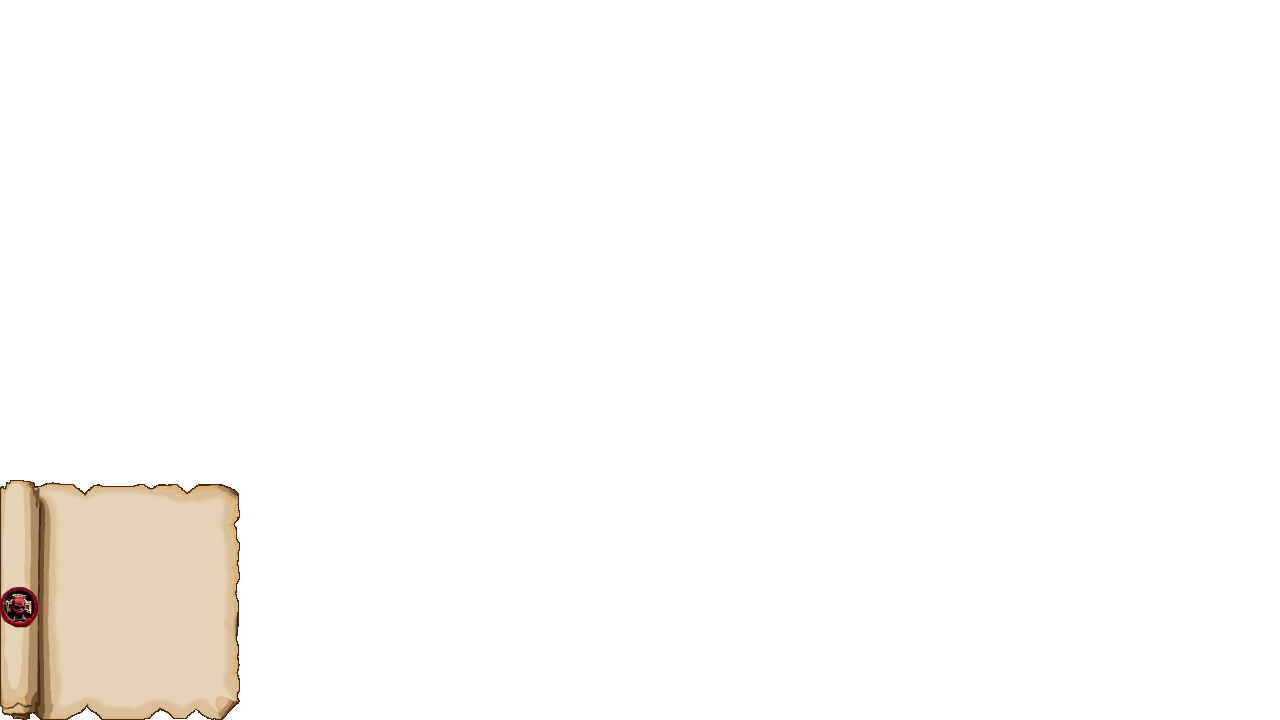
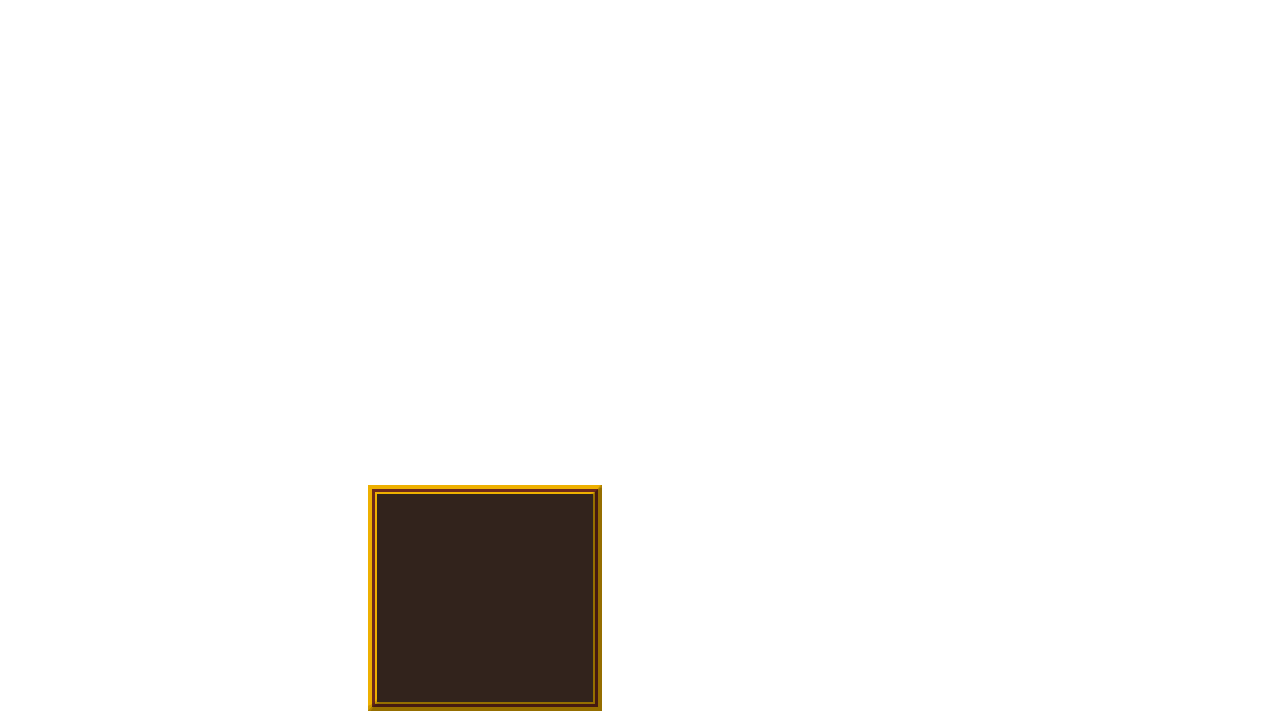
WIP battle menu

Changed region(s): [[0.0, 0.6417, 0.1875, 1.0], [0.2812, 0.6722, 0.4688, 1.0]]

diff --git a/js/plugins/TEW/TEW_Combat.js b/js/plugins/TEW/TEW_Combat.js
@@ -4415,7 +4415,6 @@ function Window_TacticsActionCommand() {
 Window_TacticsActionCommand.prototype = Object.create(Window_ActorCommand.prototype);
 Window_TacticsActionCommand.prototype.constructor = Window_TacticsActionCommand;
 Window_TacticsActionCommand.prototype.initialize = function () {
-    var y = Graphics.boxHeight - this.windowHeight();
     Window_Command.prototype.initialize.call(this, 240, Graphics.boxHeight - this.windowHeight());
     this.openness = 0;
     this.deactivate();
@@ -4704,7 +4703,10 @@ Scene_Battle.prototype.createBackground = function () {
 };
 Scene_Battle.prototype.changeBackground = function (commandLevel = 0) {
     this.removeChildAt(this.getChildIndex(this._background));
-    this._background = new Sprite(ImageManager.loadSystem(commandLevel === 0 ? 'bg_battle' : ('bg_battle_command' + commandLevel)));
+    // this._background = new Sprite(ImageManager.loadSystem(
+    //     commandLevel === 0 ? 'bg_battle' : ('bg_battle_command' + commandLevel)
+    // ));
+    this._background = new Sprite(ImageManager.loadSystem(commandLevel === 0 ? 'bg_battle' : ('bg_battle_command1')));
     this.addChildAt(this._background, this.getChildIndex(this._windowLayer));
 };
 Scene_Battle.prototype.createAllWindows = function () {
@@ -5765,20 +5767,37 @@ Window_BattleLog.prototype.showNormalAnimation = function (targets, animationId,
 function Window_TacticsCommand() {
     this.initialize.apply(this, arguments);
 }
+Window_TacticsCommand.IMAGE_CACHE_RID = 'battleCommand';
+Window_TacticsCommand.TEXT_COLOR = "#f0f0f0";
+Window_TacticsCommand.X_POS = 368;
+Window_TacticsCommand.Y_POS = 485;
 Window_TacticsCommand.prototype = Object.create(Window_ActorCommand.prototype);
 Window_TacticsCommand.prototype.constructor = Window_TacticsCommand;
 Window_TacticsCommand.prototype.initialize = function () {
-    var y = Graphics.boxHeight - this.windowHeight();
-    Window_Command.prototype.initialize.call(this, 40, Graphics.boxHeight - this.windowHeight());
+    Window_Command.prototype.initialize.call(this, 368, 485);
     this.openness = 0;
     this.deactivate();
     this._actor = null;
-};
-Window_TacticsCommand.prototype.activate = function () {
-    Window_ActorCommand.prototype.activate.call(this);
-};
-Window_TacticsCommand.prototype.deactivate = function () {
-    Window_ActorCommand.prototype.deactivate.call(this);
+    this._iconOrder = ['icon_battleCommand_action', 'icon_battleCommand_move', 'icon_battleCommand_lastUsed', 'icon_battleCommand_wait'];
+    this._imagesReady = false;
+    ImageManager.reserveSystem('icon_battleCommand_action', 0, Window_TacticsCommand.IMAGE_CACHE_RID);
+    ImageManager.reserveSystem('icon_battleCommand_move', 0, Window_TacticsCommand.IMAGE_CACHE_RID);
+    ImageManager.reserveSystem('icon_battleCommand_lastUsed', 0, Window_TacticsCommand.IMAGE_CACHE_RID);
+    ImageManager.reserveSystem('icon_battleCommand_wait', 0, Window_TacticsCommand.IMAGE_CACHE_RID);
+    ImageManager.reserveSystem('icon_battleCommand_action_selected', 0, Window_TacticsCommand.IMAGE_CACHE_RID);
+    ImageManager.reserveSystem('icon_battleCommand_move_selected', 0, Window_TacticsCommand.IMAGE_CACHE_RID);
+    ImageManager.reserveSystem('icon_battleCommand_lastUsed_selected', 0, Window_TacticsCommand.IMAGE_CACHE_RID);
+    ImageManager.reserveSystem('icon_battleCommand_wait_selected', 0, Window_TacticsCommand.IMAGE_CACHE_RID);
+    const readyCheck = resolve => {
+        if (ImageManager.isReady())
+            resolve();
+        else
+            setTimeout(() => readyCheck(resolve), 100);
+    };
+    new Promise(readyCheck).then(() => {
+        this._imagesReady = true;
+        this.refresh();
+    });
 };
 Window_TacticsCommand.prototype.setup = function (actor) {
     this._actor = actor;
@@ -5791,12 +5810,39 @@ Window_TacticsCommand.prototype.setup = function (actor) {
     this.activate();
     this.open();
 };
+Window_TacticsCommand.prototype.refresh = function () {
+    if (this._actor && this._imagesReady) {
+        Window_ActorCommand.prototype.refresh.call(this);
+    }
+};
 Window_TacticsCommand.prototype.makeCommandList = function () {
     if (this._actor) {
         this.addMoveCommand();
         this.addActionCommand();
-        this.addAdvantageCommand();
+        this.addAdvantageCommand(); // TODO replace with last used
         this.addWaitCommand();
+    }
+};
+Window_TacticsCommand.prototype.drawItem = function (index) {
+    const y = index * (TEW.MENU.LINE_HEIGHT + 8);
+    let iconName = this._index === index ? this._iconOrder[index] + '_selected' : this._iconOrder[index];
+    const bitmap = ImageManager.loadSystem(iconName);
+    this.contents.blt(bitmap, 0, 0, bitmap.rect.width, bitmap.rect.height, 0, y);
+    this.changeTextColor(Window_TacticsCommand.TEXT_COLOR);
+    this.drawText(this.commandName(index), 48, y, 152);
+    this.resetTextColor();
+};
+Window_TacticsCommand.prototype.itemRect = function (index) {
+    return new Rectangle(0, index * (TEW.MENU.LINE_HEIGHT + 8), 200, TEW.MENU.LINE_HEIGHT);
+};
+Window_TacticsCommand.prototype.itemRectForText = function (index) {
+    return this.itemRect(index);
+};
+Window_TacticsCommand.prototype.select = function (index) {
+    const changed = index >= 0 && index !== this.index();
+    Window_Selectable.prototype.select.call(this, index);
+    if (changed) {
+        this.refresh();
     }
 };
 // Legacy command list
@@ -5832,6 +5878,15 @@ Window_TacticsCommand.prototype.addAdvantageCommand = function () {
 };
 Window_TacticsCommand.prototype.addWaitCommand = function () {
     this.addCommand(TEW.COMBAT.SYSTEM.wait, 'wait', true);
+};
+Window_TacticsCommand.prototype.close = function () {
+    ImageManager.releaseReservation(Window_TacticsCommand.IMAGE_CACHE_RID);
+    Window_ActorCommand.prototype.close.call(this);
+};
+Window_TacticsCommand.prototype.horizontalborderPadding = () => 25;
+Window_TacticsCommand.prototype.verticalBorderPadding = () => 25;
+Window_TacticsCommand.prototype.updateCursor = function () {
+    this.setCursorRect(0, 0, 0, 0);
 };
 // #endregion =========================== Window_TacticsCommand ============================== //
 // ============================== //
@@ -6903,10 +6958,10 @@ Spriteset_Tactics.prototype.isEffecting = function () {
 // ============================== //
 // #region ============================== backgrounds ============================== //
 Window_TacticsCommand.prototype.windowWidth = function () {
-    return 200; // 4 * line height + 2 * text padding + 2 * bg padding
+    return 234;
 };
 Window_TacticsCommand.prototype.windowHeight = function () {
-    return 240; // 4 * line height + 2 * text padding + 2 * bg padding
+    return 226;
 };
 Window_TacticsActionCommand.prototype.windowWidth = function () {
     return 200; // 4 * line height + 2 * text padding + 2 * bg padding

diff --git a/src/plugins/combat/menu/Window_TacticsCommand.ts b/src/plugins/combat/menu/Window_TacticsCommand.ts
@@ -1,4 +1,8 @@
 // $PluginCompiler TEW_Combat.js
+
+import TEW from "../../_types/tew";
+import { Bitmap } from "../../../rmmv/core/Bitmap";
+
 // $StartCompilation
 
 //-----------------------------------------------------------------------------
@@ -10,24 +14,39 @@ function Window_TacticsCommand() {
     this.initialize.apply(this, arguments);
 }
 
+Window_TacticsCommand.IMAGE_CACHE_RID = 'battleCommand';
+Window_TacticsCommand.TEXT_COLOR = "#f0f0f0";
+Window_TacticsCommand.X_POS = 368;
+Window_TacticsCommand.Y_POS = 485;
+
 export default Window_TacticsCommand.prototype = Object.create(Window_ActorCommand.prototype);
 Window_TacticsCommand.prototype.constructor = Window_TacticsCommand;
 
 Window_TacticsCommand.prototype.initialize = function() {
-    var y = Graphics.boxHeight - this.windowHeight();
-    Window_Command.prototype.initialize.call(this, 40, Graphics.boxHeight - this.windowHeight());
+    Window_Command.prototype.initialize.call(this, 368, 485);
     this.openness = 0;
     this.deactivate();
     this._actor = null;
+    this._iconOrder = ['icon_battleCommand_action', 'icon_battleCommand_move', 'icon_battleCommand_lastUsed', 'icon_battleCommand_wait'];
+    
+    this._imagesReady = false;
+    ImageManager.reserveSystem('icon_battleCommand_action', 0, Window_TacticsCommand.IMAGE_CACHE_RID);
+    ImageManager.reserveSystem('icon_battleCommand_move', 0, Window_TacticsCommand.IMAGE_CACHE_RID);
+    ImageManager.reserveSystem('icon_battleCommand_lastUsed', 0, Window_TacticsCommand.IMAGE_CACHE_RID);
+    ImageManager.reserveSystem('icon_battleCommand_wait', 0, Window_TacticsCommand.IMAGE_CACHE_RID);
+    ImageManager.reserveSystem('icon_battleCommand_action_selected', 0, Window_TacticsCommand.IMAGE_CACHE_RID);
+    ImageManager.reserveSystem('icon_battleCommand_move_selected', 0, Window_TacticsCommand.IMAGE_CACHE_RID);
+    ImageManager.reserveSystem('icon_battleCommand_lastUsed_selected', 0, Window_TacticsCommand.IMAGE_CACHE_RID);
+    ImageManager.reserveSystem('icon_battleCommand_wait_selected', 0, Window_TacticsCommand.IMAGE_CACHE_RID);
+    const readyCheck = resolve => {
+        if (ImageManager.isReady()) resolve();
+        else setTimeout(() => readyCheck(resolve), 100);
+    };
+    new Promise(readyCheck).then(() => {
+        this._imagesReady = true;
+        this.refresh();
+    });
 };
-
-Window_TacticsCommand.prototype.activate = function() {
-    Window_ActorCommand.prototype.activate.call(this);
-}
-
-Window_TacticsCommand.prototype.deactivate = function() {
-    Window_ActorCommand.prototype.deactivate.call(this);
-}
 
 Window_TacticsCommand.prototype.setup = function(actor) {
     this._actor = actor;
@@ -41,12 +60,48 @@ Window_TacticsCommand.prototype.setup = function(actor) {
     this.open();
 };
 
+Window_TacticsCommand.prototype.refresh = function() {
+    if (this._actor && this._imagesReady) {
+        Window_ActorCommand.prototype.refresh.call(this);
+    }
+};
+
 Window_TacticsCommand.prototype.makeCommandList = function() {
     if (this._actor) {
         this.addMoveCommand();
         this.addActionCommand();
-        this.addAdvantageCommand();
+        this.addAdvantageCommand(); // TODO replace with last used
         this.addWaitCommand();
+    }
+};
+
+Window_TacticsCommand.prototype.drawItem = function(index: number) {
+    const y = index * (TEW.MENU.LINE_HEIGHT + 8);
+
+    let iconName = this._index === index ? this._iconOrder[index] + '_selected' : this._iconOrder[index];
+    const bitmap: Bitmap = ImageManager.loadSystem(iconName);
+    this.contents.blt(bitmap, 0, 0, bitmap.rect.width, bitmap.rect.height, 0, y);
+    this.changeTextColor(Window_TacticsCommand.TEXT_COLOR);
+    this.drawText(this.commandName(index), 48, y, 152);
+    this.resetTextColor();
+};
+
+Window_TacticsCommand.prototype.itemRect = function(index: number) {
+    return new Rectangle(
+        0, index * (TEW.MENU.LINE_HEIGHT + 8),
+        200, TEW.MENU.LINE_HEIGHT
+    );
+};
+
+Window_TacticsCommand.prototype.itemRectForText = function(index: number) {
+    return this.itemRect(index);
+};
+
+Window_TacticsCommand.prototype.select = function(index: number) {
+    const changed = index >= 0 && index !== this.index();
+    Window_Selectable.prototype.select.call(this, index);
+    if (changed) {
+        this.refresh();
     }
 };
 
@@ -88,4 +143,16 @@ Window_TacticsCommand.prototype.addAdvantageCommand = function() {
 
 Window_TacticsCommand.prototype.addWaitCommand = function() {
     this.addCommand(TEW.COMBAT.SYSTEM.wait, 'wait', true);
+};
+
+Window_TacticsCommand.prototype.close = function() {
+    ImageManager.releaseReservation(Window_TacticsCommand.IMAGE_CACHE_RID);
+    Window_ActorCommand.prototype.close.call(this);
+};
+
+Window_TacticsCommand.prototype.horizontalborderPadding = () => 25;
+Window_TacticsCommand.prototype.verticalBorderPadding = () => 25;
+
+Window_TacticsCommand.prototype.updateCursor = function() {
+    this.setCursorRect(0, 0, 0, 0);
 };

diff --git a/src/plugins/combat/menu/Scene_Battle.ts b/src/plugins/combat/menu/Scene_Battle.ts
@@ -68,8 +68,11 @@ Scene_Battle.prototype.createBackground = function() {
 
 Scene_Battle.prototype.changeBackground = function(commandLevel = 0) {
     this.removeChildAt(this.getChildIndex(this._background));
+    // this._background = new Sprite(ImageManager.loadSystem(
+    //     commandLevel === 0 ? 'bg_battle' : ('bg_battle_command' + commandLevel)
+    // ));
     this._background = new Sprite(ImageManager.loadSystem(
-        commandLevel === 0 ? 'bg_battle' : ('bg_battle_command' + commandLevel)
+        commandLevel === 0 ? 'bg_battle' : ('bg_battle_command1')
     ));
     this.addChildAt(this._background, this.getChildIndex(this._windowLayer));
 };

diff --git a/src/plugins/combat/menu/backgrounds.ts b/src/plugins/combat/menu/backgrounds.ts
@@ -11,10 +11,10 @@ import Window_TurnOrder from "./Window_TurnOrder";
 // $StartCompilation
 
 Window_TacticsCommand.prototype.windowWidth = function() {
-    return 200; // 4 * line height + 2 * text padding + 2 * bg padding
+    return 234;
 };
 Window_TacticsCommand.prototype.windowHeight = function() {
-    return 240; // 4 * line height + 2 * text padding + 2 * bg padding
+    return 226;
 };
 
 Window_TacticsActionCommand.prototype.windowWidth = function() {

diff --git a/src/plugins/combat/menu/action/Window_TacticsActionCommand.ts b/src/plugins/combat/menu/action/Window_TacticsActionCommand.ts
@@ -14,7 +14,6 @@ export default Window_TacticsActionCommand.prototype = Object.create(Window_Acto
 Window_TacticsActionCommand.prototype.constructor = Window_TacticsActionCommand;
 
 Window_TacticsActionCommand.prototype.initialize = function() {
-    var y = Graphics.boxHeight - this.windowHeight();
     Window_Command.prototype.initialize.call(this, 240, Graphics.boxHeight - this.windowHeight());
     this.openness = 0;
     this.deactivate();

diff --git a/src/plugins/_types/tew.ts b/src/plugins/_types/tew.ts
@@ -390,6 +390,12 @@ const TEW: {
 
             /** Whether the battle is lost */
             isDefeated?: boolean;
+
+            move?: string;
+
+            action?: string;
+
+            advantage?: string;
         }
         /**
          * Extract effects from a weapon's qualities.
